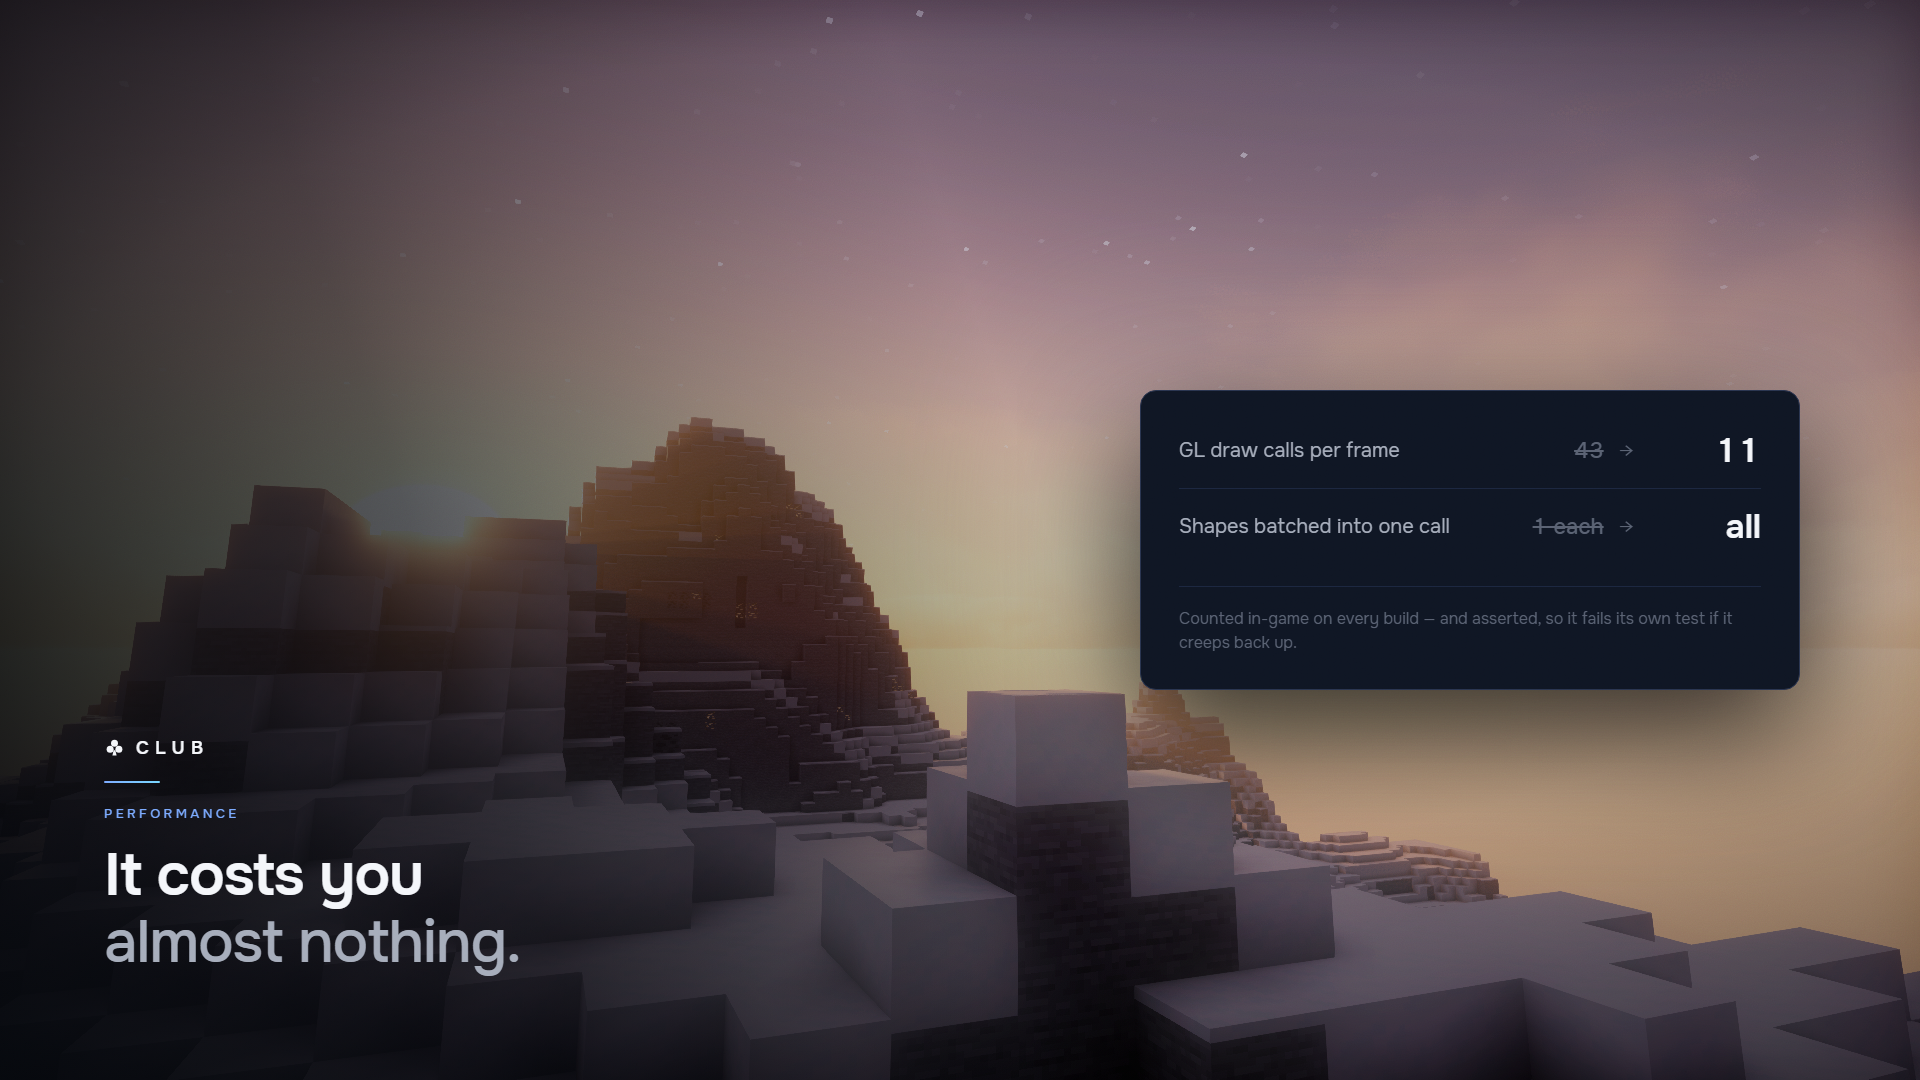
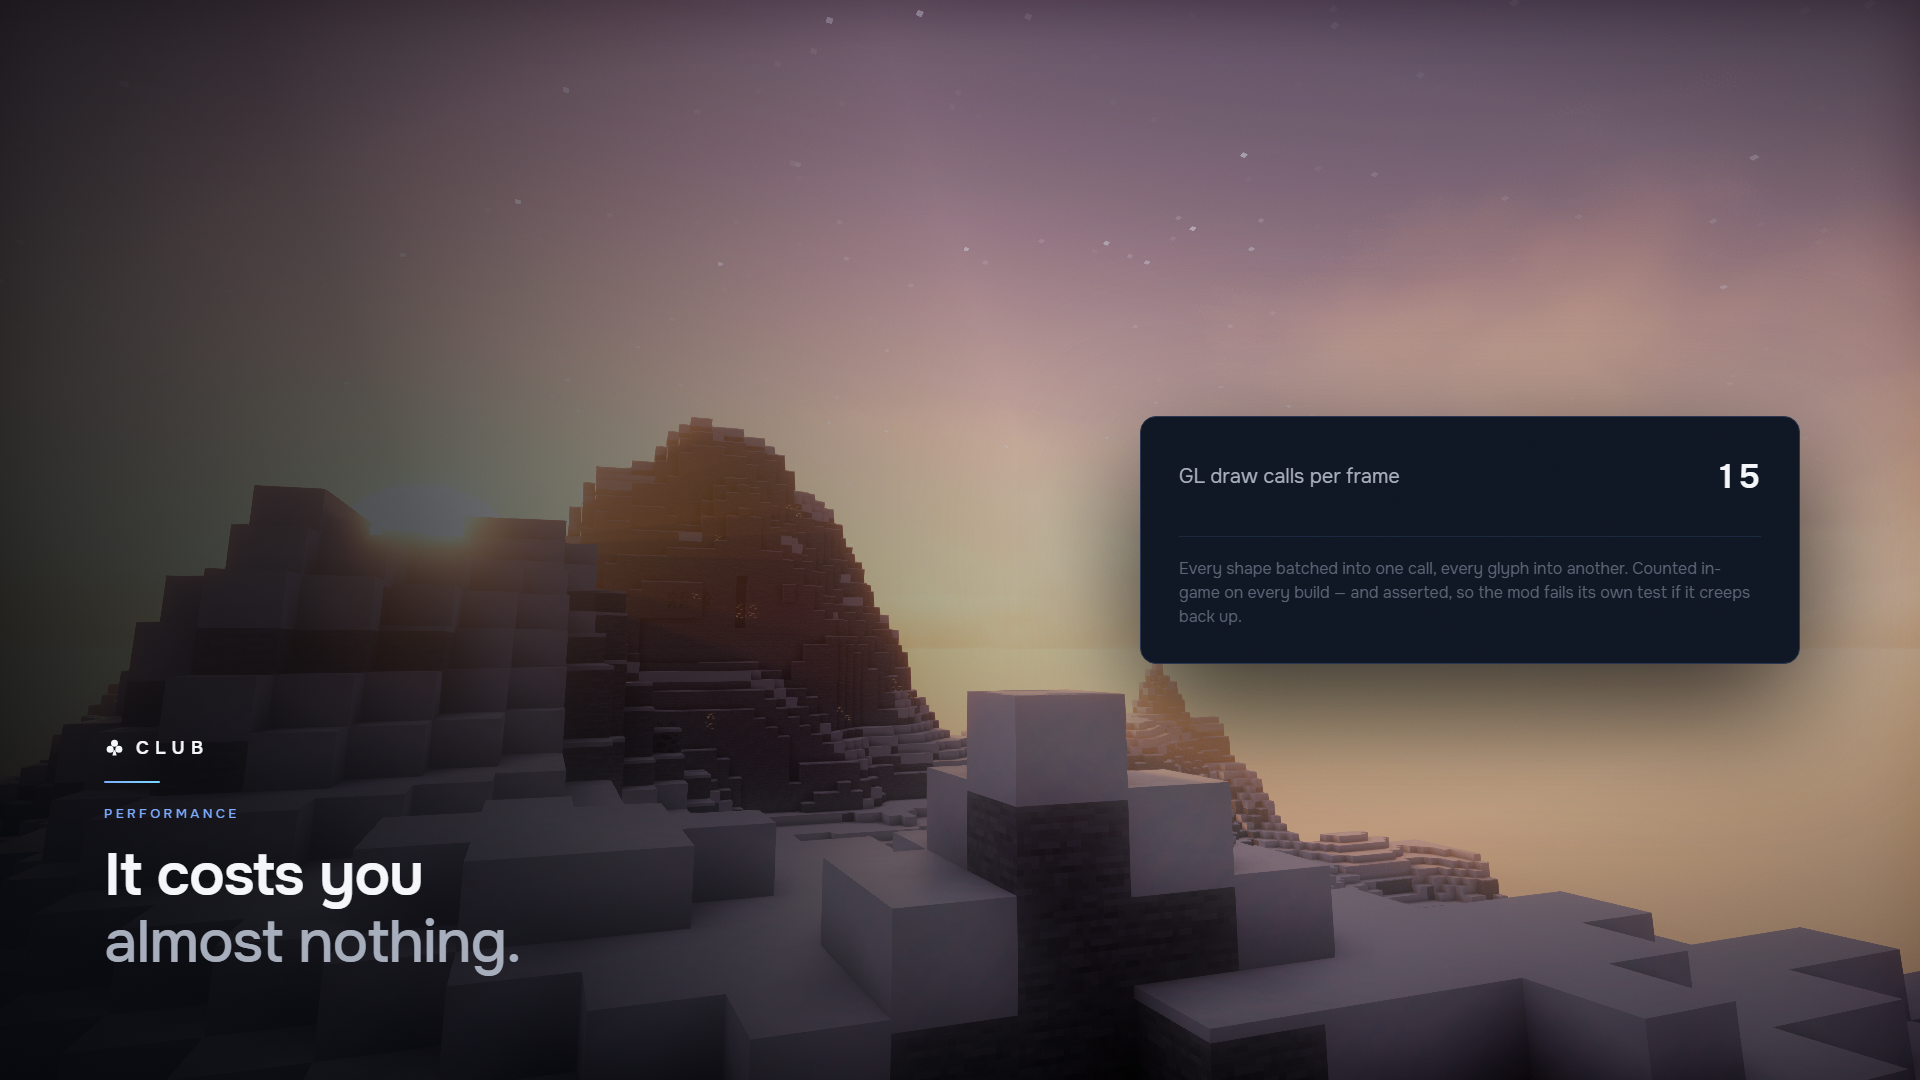
fix: "43 -> 11" was the blind counter's story — the page prints 15 now
Chat B repaired the instrument, and the first thing the working instrument did was
falsify a number this project had already printed. The draw-call counter never saw
the icon draws: PixelIcons submits each one in immediate mode, outside the backend's
flush. The real cost is 15 calls a frame — 4 shapes, 7 text, 4 icons — and the
assert of "calls <= 16" was passing not because we fit under it, but because it was
blind.

So the Modrinth copy, the changelog and the performance frame stop claiming 43 -> 11.
The before/after is not knowable until the unbatched path is measured with the FIXED
counter; until it is, the page prints the one number that has actually been counted.

The same instrument also killed the plan's main suspect: TargetHud's per-frame
raycast is 5% of our cost, not the bulk of it. 80% is BUILD — text shaping and
geometry, rebuilt from scratch every frame for content that changes twice a second.
The plan said to cache the raycast. The measurement says to cache the build.

And the millisecond turns out not to have been a driver-queue artefact at all: in one
static scene, ten seconds apart, all four phases moved together — raycast and layout
included, which never touch the driver. The client was simply running faster. We were
measuring the machine and printing it as the price of the mod. The harness now asserts
on the FRACTION of the frame (12% spread) instead of the millisecond (34%), and a run
[…]

Changed region(s): [[0.5938, 0.3361, 0.9375, 0.7028], [0.875, 0.4278, 0.9375, 0.4583]]

diff --git a/docs/MODRINTH.md b/docs/MODRINTH.md
@@ -83,8 +83,8 @@ was running. Fixed. And turning off Club's Effects HUD no longer leaves you with
 
 ## ⚡ It measures its own cost
 
-The in-world HUD draw is **11 GL calls a frame**, down from 43 — one call per shape became one call per batch.
-That number is counted in-game on every build and asserted, so it fails its own test if it creeps back up.
+The in-world HUD draws in **15 GL calls a frame** — every shape batched into one call, every glyph into another.
+That number is counted in-game on every build and asserted, so the mod fails its own test if it creeps back up.
 
 ## 🧩 Compatibility
 

diff --git a/CHANGELOG.md b/CHANGELOG.md
@@ -56,7 +56,7 @@ reinterpreted — nothing jumps across the screen.
   at any magnification.
 - The menu draws on its own canvas — at GUI Scale 4 it used to hit the edges of the screen, drop columns and
   squeeze its sidebar.
-- The mod's draw cost: 43 GL calls a frame became 11.
+- The mod's draw cost: every shape is batched into one GL call now, every glyph into another.
 - Screen Stretch ships as **Auto** — a fresh install no longer warps the world of anyone whose monitor isn't
   16:9.
 - Fullbright only touches the world lightmap, so your real Brightness slider and `options.txt` stay honest.
